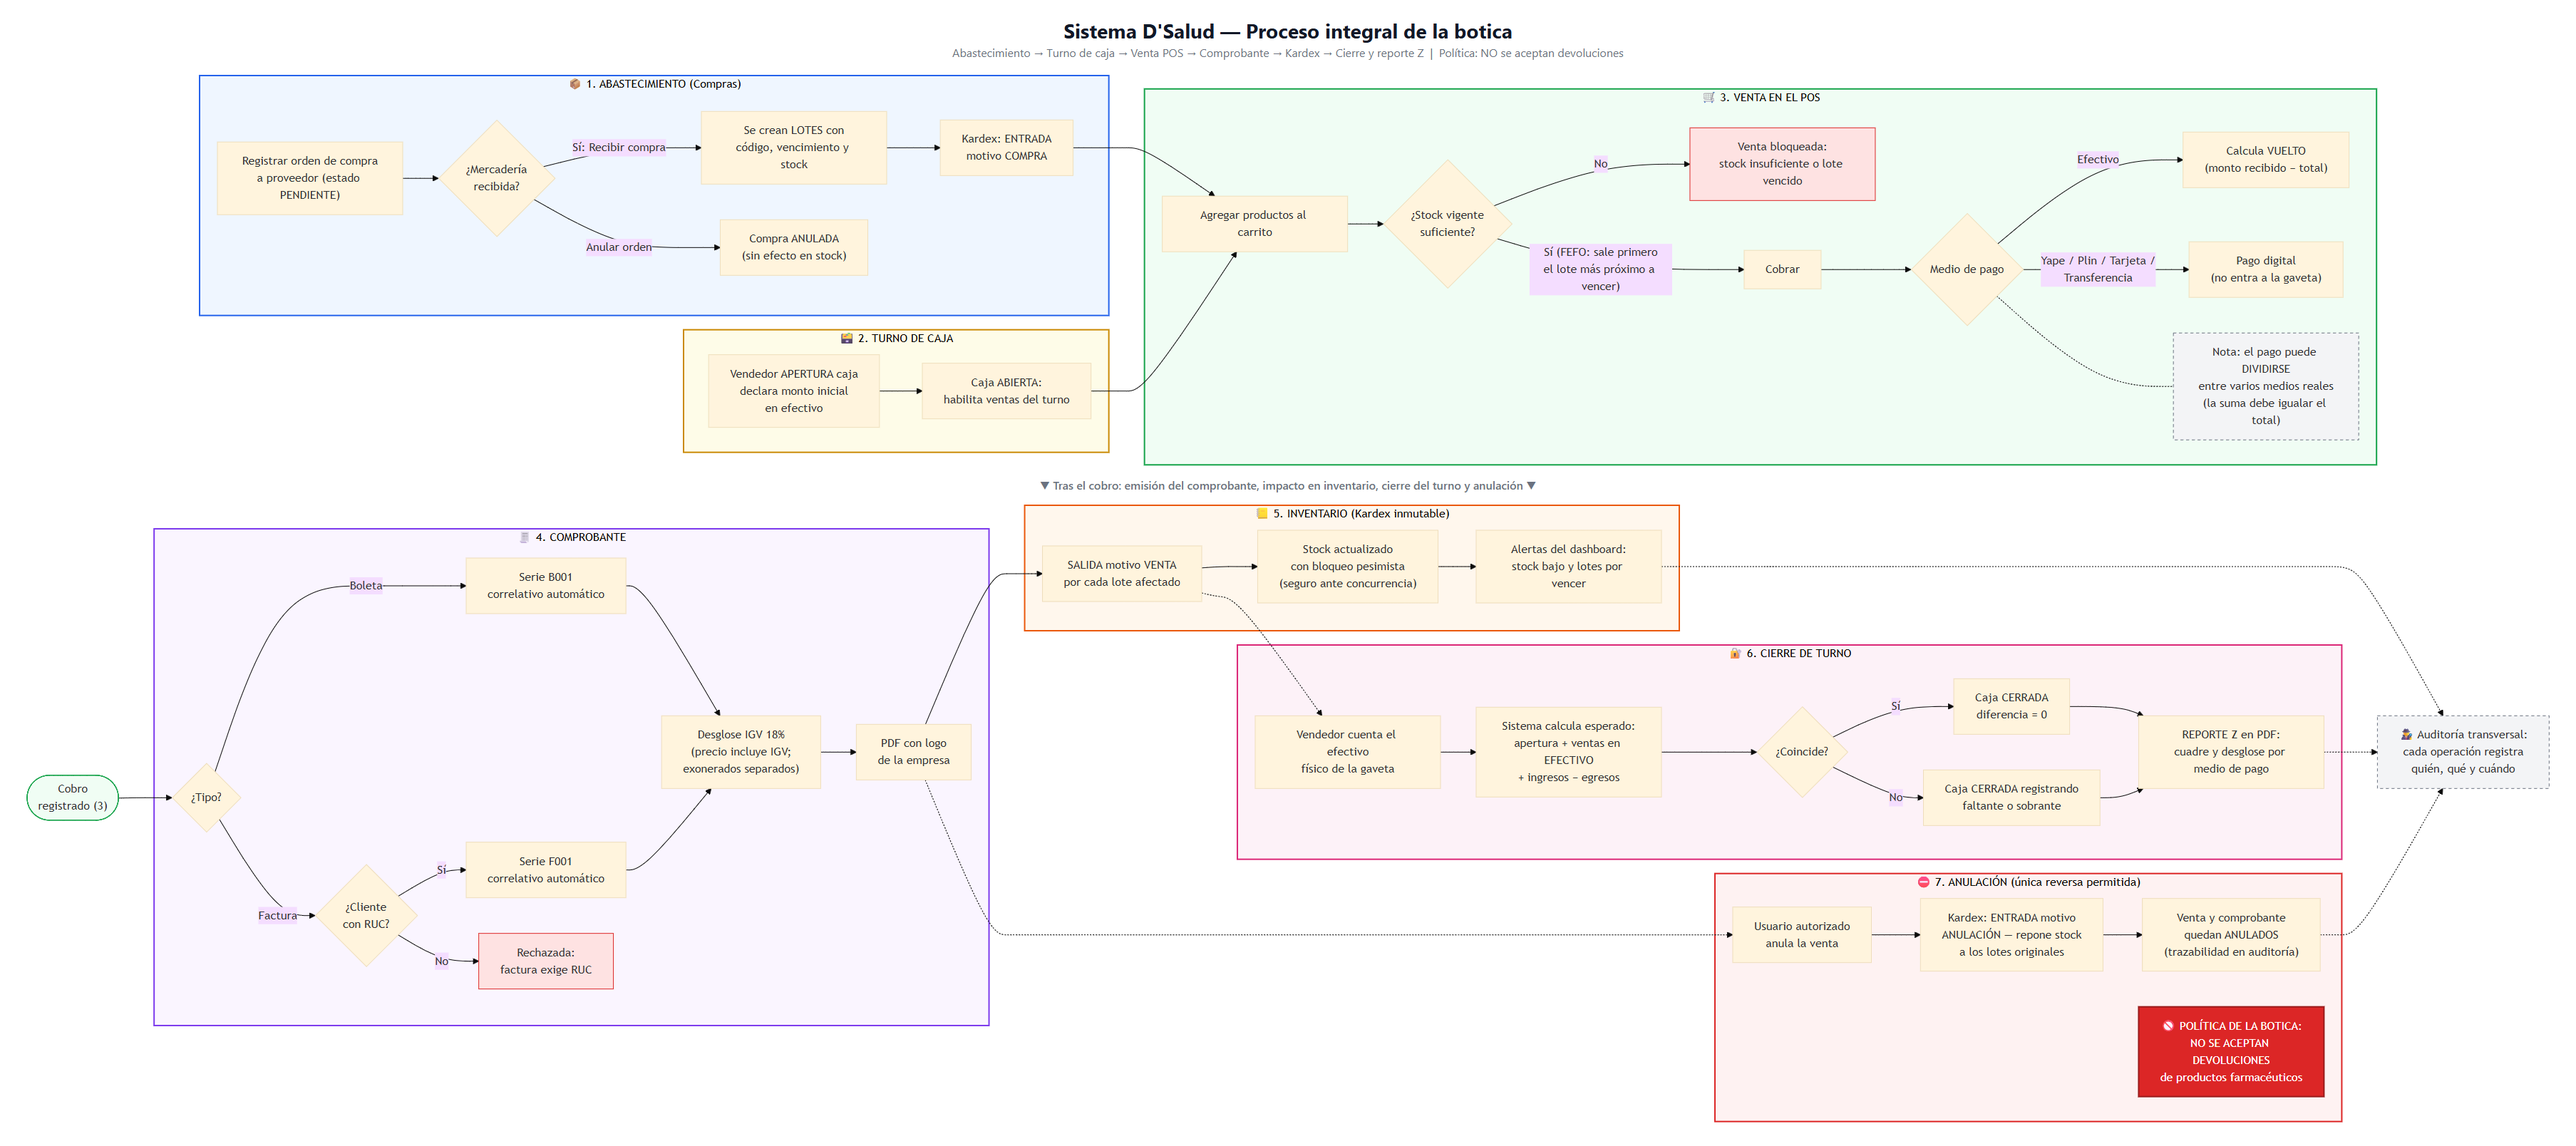
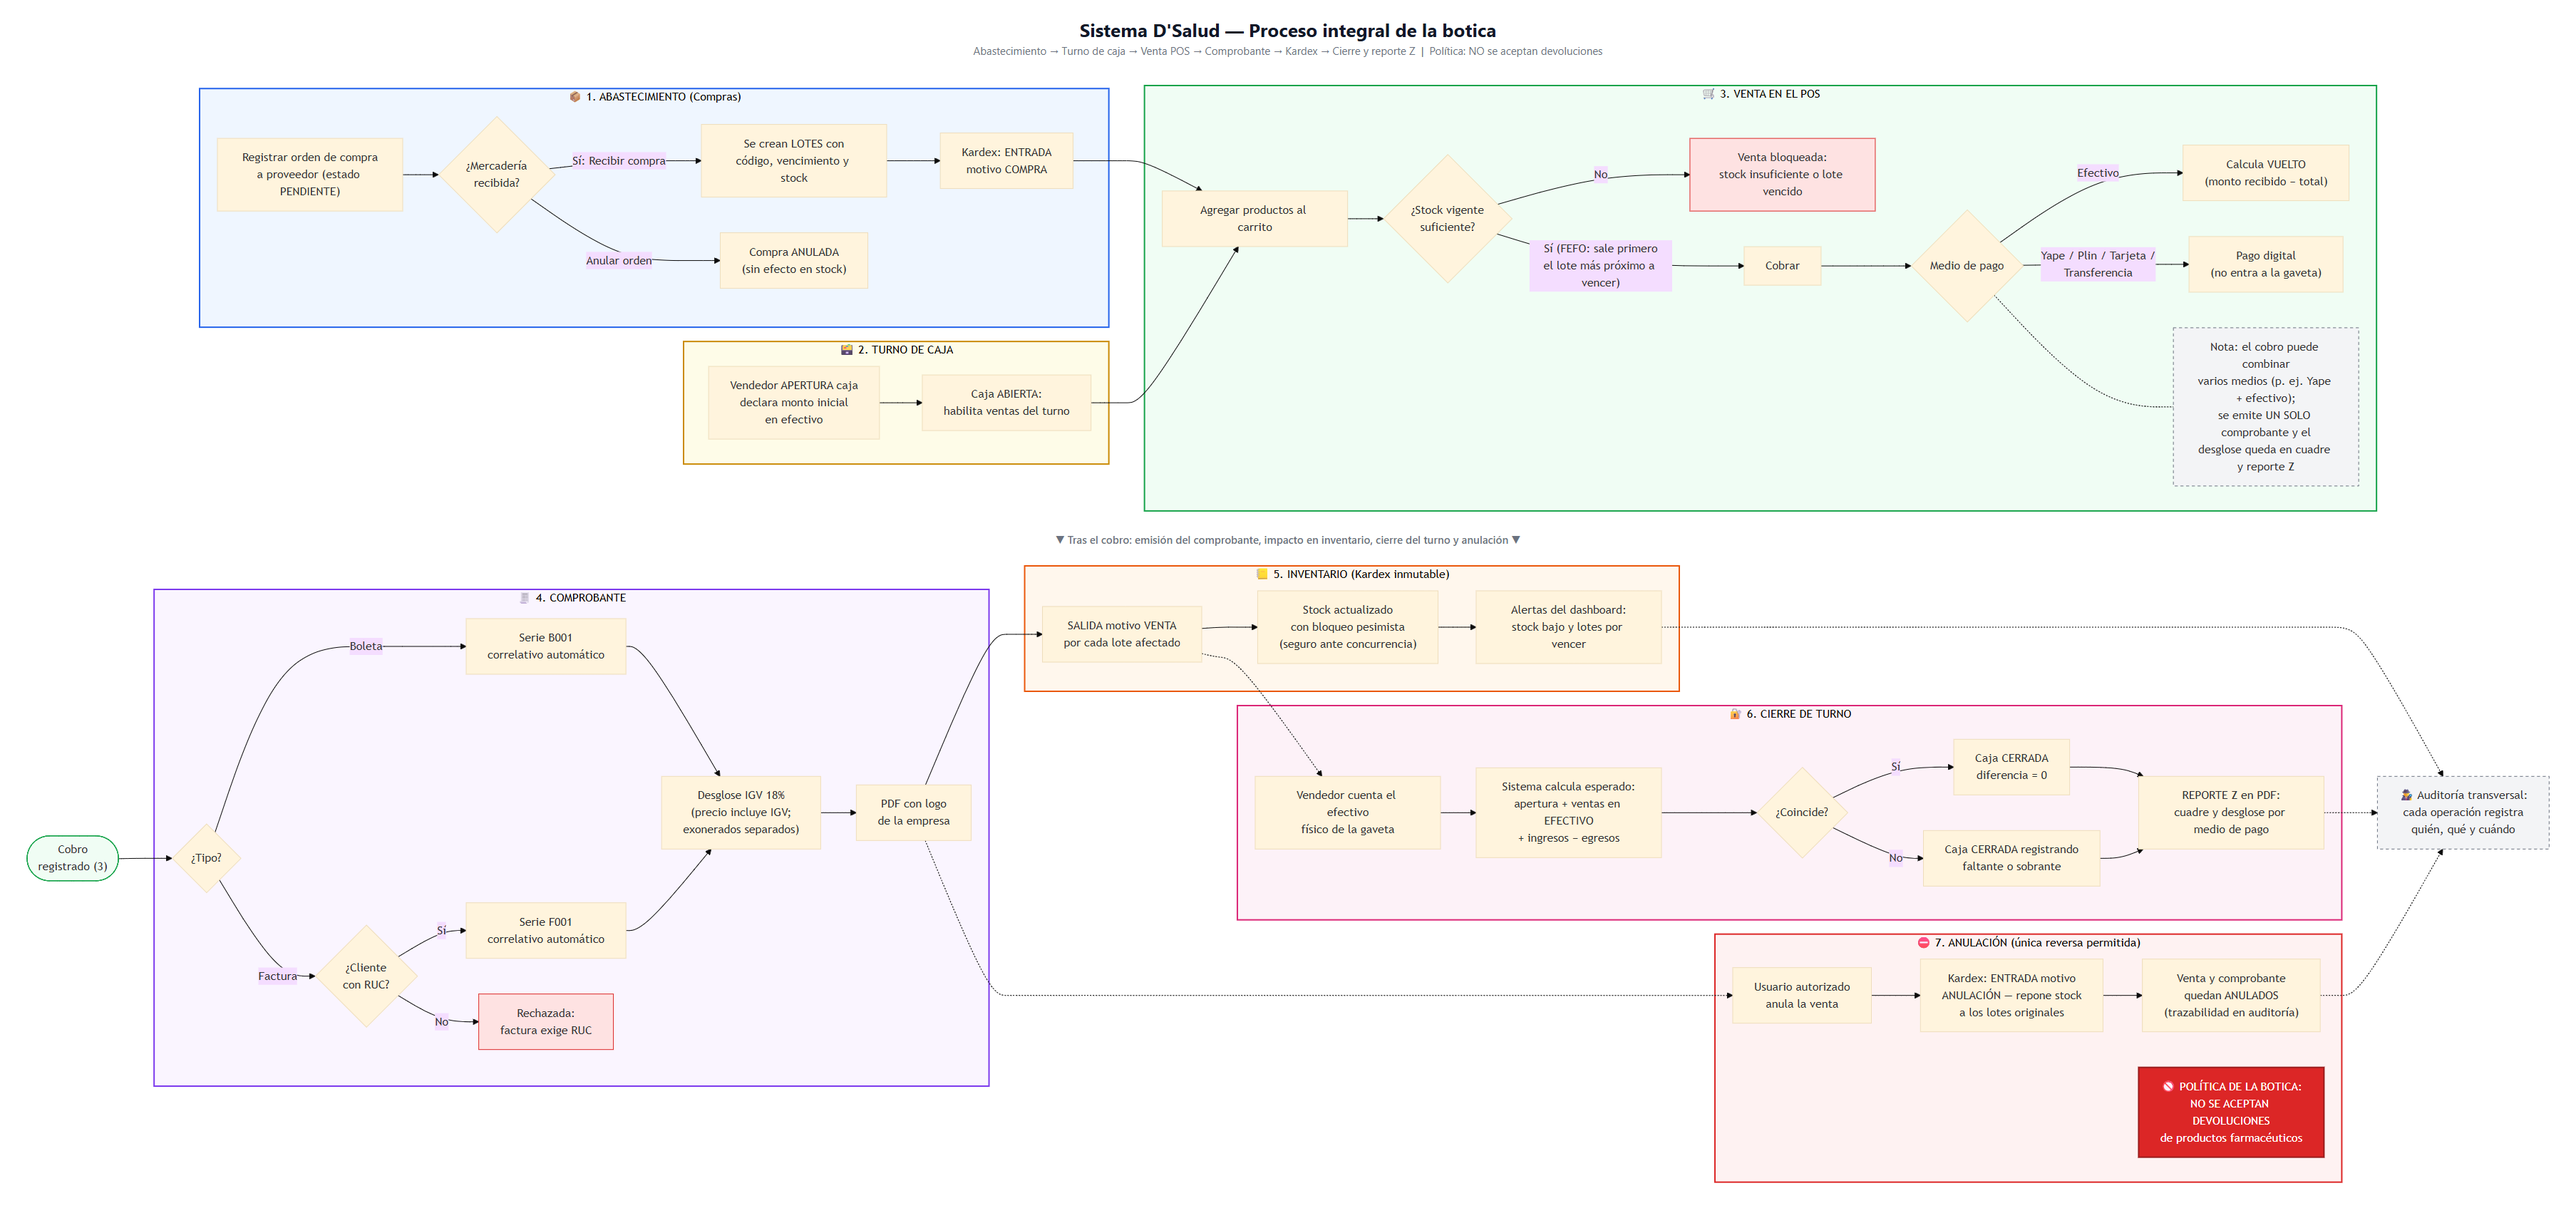
docs(flujo): aclarar que el pago combinado emite un solo comprobante
La nota del pago mixto podia leerse como si el sistema 'generara' algo
dividido. Se reformula en el diagrama de proceso y en la pagina de flujo:
el cobro puede combinar varios medios (p. ej. Yape + efectivo), se emite
UN solo comprobante por la venta y el desglose por medio queda en el
cuadre de caja y el reporte Z. PNG regenerado y copia en vivo actualizada.

diff --git a/docs/flujo-sistema.html b/docs/flujo-sistema.html
@@ -188,7 +188,7 @@ subgraph VENTA["🛒 3. VENTA EN EL POS"]
   V4 --> V5{"Medio de pago"}
   V5 -- "Efectivo" --> V6["Calcula VUELTO<br/>(monto recibido − total)"]
   V5 -- "Yape / Plin / Tarjeta /<br/>Transferencia" --> V7["Pago digital<br/>(no entra a la gaveta)"]
-  V5 -.- V8["Nota: el pago puede DIVIDIRSE<br/>entre varios medios reales<br/>(la suma debe igualar el total)"]
+  V5 -.- V8["Nota: el cobro puede combinar<br/>varios medios (p. ej. Yape + efectivo);<br/>se emite UN SOLO comprobante y el<br/>desglose queda en cuadre y reporte Z"]
 end
 A4 --> V1
 C2 --> V1

diff --git a/docs/diagrama-proceso.html b/docs/diagrama-proceso.html
@@ -40,7 +40,7 @@ subgraph VENTA["🛒 3. VENTA EN EL POS"]
   V4 --> V5{"Medio de pago"}
   V5 -- "Efectivo" --> V6["Calcula VUELTO<br/>(monto recibido − total)"]
   V5 -- "Yape / Plin / Tarjeta /<br/>Transferencia" --> V7["Pago digital<br/>(no entra a la gaveta)"]
-  V5 -.- V8["Nota: el pago puede DIVIDIRSE<br/>entre varios medios reales<br/>(la suma debe igualar el total)"]
+  V5 -.- V8["Nota: el cobro puede combinar<br/>varios medios (p. ej. Yape + efectivo);<br/>se emite UN SOLO comprobante y el<br/>desglose queda en cuadre y reporte Z"]
 end
 
 A4 --> V1
